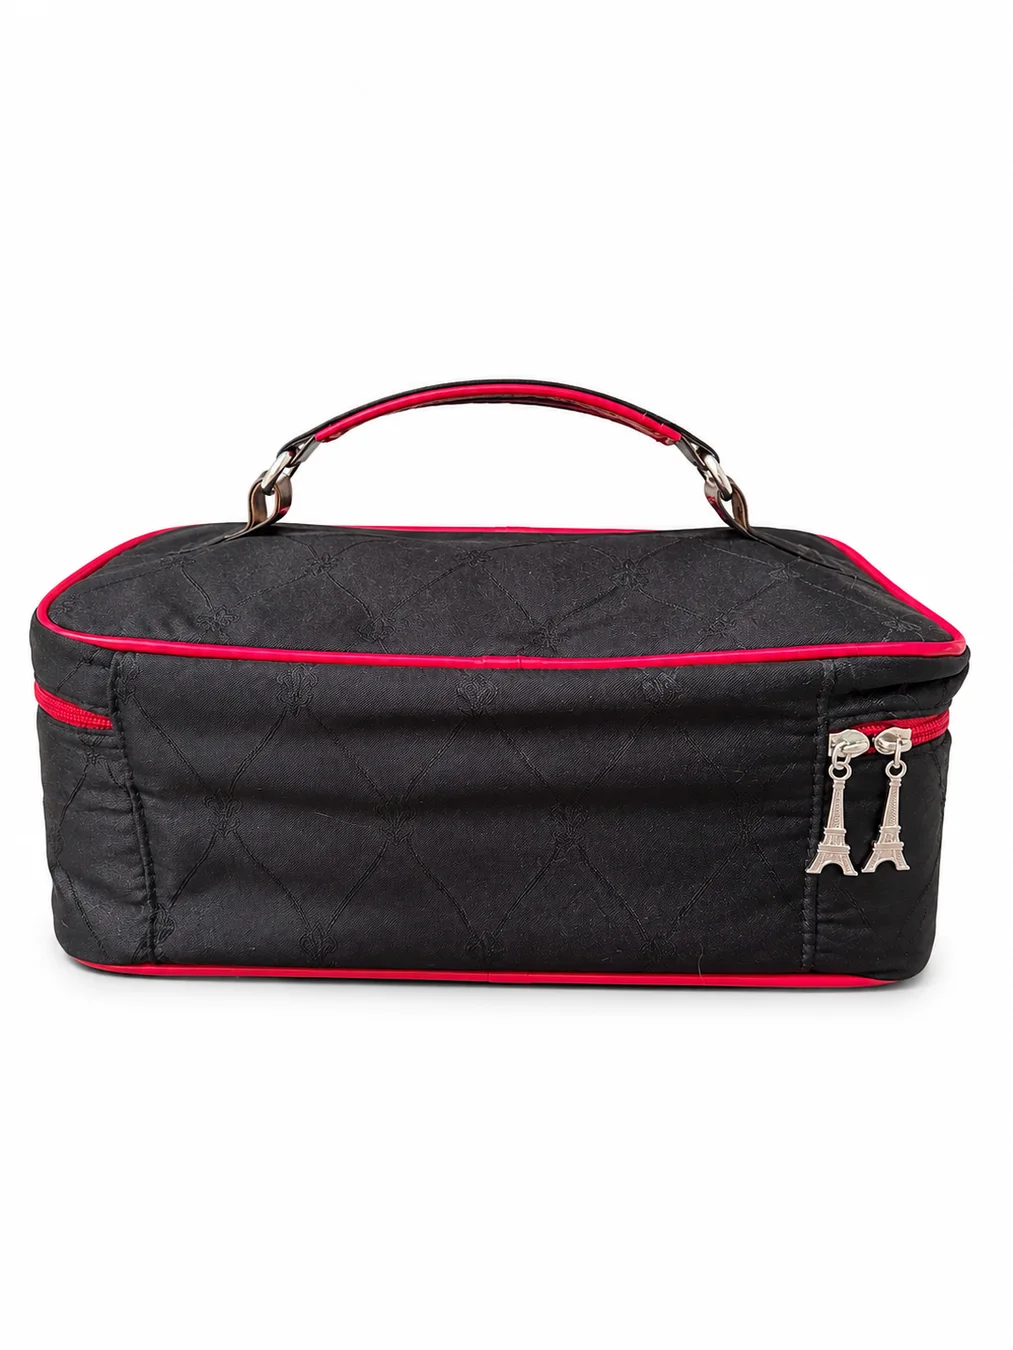
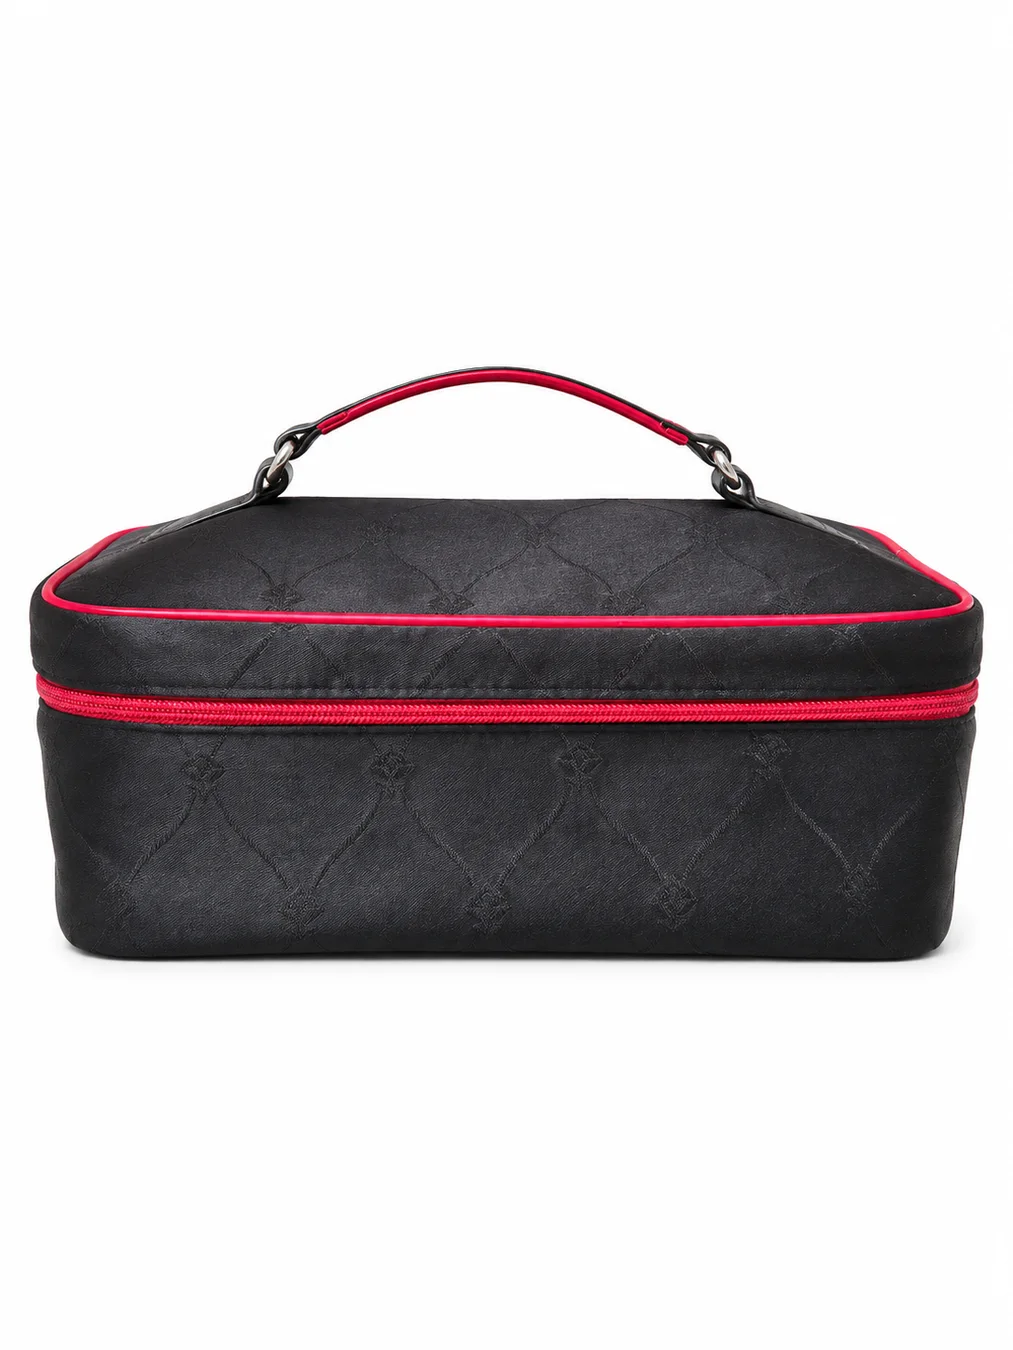
Correct red-trim case front and back photos and cover collage

Changed region(s): [[0.0306, 0.2489, 0.9793, 0.7467]]

diff --git a/index.html b/index.html
@@ -23,16 +23,16 @@
 </section>
 <section class="beauty-product" id="lancome-ribete-rojo" data-category="beauty" aria-labelledby="red-case-name">
   <div class="case-gallery">
-    <a id="red-case-full-photo" href="assets/products/beauty/lancome-red-trim/collage.webp" target="_blank" rel="noopener">
-      <img id="red-case-photo" src="assets/products/beauty/lancome-red-trim/collage.webp" alt="Estuche con ribete rojo, tiradores de torre Eiffel y etiqueta interior" loading="lazy">
+    <a id="red-case-full-photo" href="assets/products/beauty/lancome-red-trim/collage.webp?v=2" target="_blank" rel="noopener">
+      <img id="red-case-photo" src="assets/products/beauty/lancome-red-trim/collage.webp?v=2" alt="Estuche con ribete rojo, tiradores de torre Eiffel y etiqueta interior" loading="lazy">
     </a>
     <div class="case-views" role="group" aria-label="Vistas del estuche">
-      <a href="assets/products/beauty/lancome-red-trim/collage.webp" data-case-view="collage" aria-current="true" data-case-copy="collage">Collage</a>
-      <a href="assets/products/beauty/lancome-red-trim/front.webp" data-case-view="front" data-case-copy="front">Frente</a>
+      <a href="assets/products/beauty/lancome-red-trim/collage.webp?v=2" data-case-view="collage" aria-current="true" data-case-copy="collage">Collage</a>
+      <a href="assets/products/beauty/lancome-red-trim/front.webp?v=2" data-case-view="front" data-case-copy="front">Frente</a>
       <a href="assets/products/beauty/lancome-red-trim/top.webp" data-case-view="top" data-case-copy="top">Desde arriba</a>
       <a href="assets/products/beauty/lancome-red-trim/interior.webp" data-case-view="interior" data-case-copy="interior">Interior y etiqueta</a>
       <a href="assets/products/beauty/lancome-red-trim/base.webp" data-case-view="base" data-case-copy="base">Base</a>
-      <a href="assets/products/beauty/lancome-red-trim/reverse.webp" data-case-view="reverse" data-case-copy="reverse">Reverso</a>
+      <a href="assets/products/beauty/lancome-red-trim/reverse.webp?v=2" data-case-view="reverse" data-case-copy="reverse">Reverso</a>
     </div>
   </div>
   <div class="case-info">
@@ -44,4 +44,4 @@
     <p class="women-note" data-case-copy="photoNote">Fotos editadas con IA a partir de las imágenes del estuche.</p>
   </div>
 </section>
-<div class="notice"><div><p class="eyebrow">PRÓXIMAMENTE</p><h2>Estamos agregando productos.</h2><p>Esta es una vista previa de la tienda. Ya puedes explorar las prendas y solicitar una compra. Confirmaremos precio y disponibilidad antes de enviar un enlace de pago seguro.</p></div><span class="notice-icon">✧</span></div></main><footer><div><strong>ROPA Y BELLEZA</strong><p>Moda, belleza y accesorios seleccionados.</p></div><p>Próximamente: contacto y consultas sobre productos.</p></footer><script src="site/main.js?v=6"></script><script src="site/products.js?v=9"></script></body></html>
+<div class="notice"><div><p class="eyebrow">PRÓXIMAMENTE</p><h2>Estamos agregando productos.</h2><p>Esta es una vista previa de la tienda. Ya puedes explorar las prendas y solicitar una compra. Confirmaremos precio y disponibilidad antes de enviar un enlace de pago seguro.</p></div><span class="notice-icon">✧</span></div></main><footer><div><strong>ROPA Y BELLEZA</strong><p>Moda, belleza y accesorios seleccionados.</p></div><p>Próximamente: contacto y consultas sobre productos.</p></footer><script src="site/main.js?v=7"></script><script src="site/products.js?v=9"></script></body></html>

diff --git a/site/main.js b/site/main.js
@@ -36,13 +36,13 @@ const redTrimCopy = {
     name: 'Estuche Lancôme con ribete rojo',
     description: 'Estuche negro con motivos tejidos, ribete rojo y dos tiradores en forma de torre Eiffel. El interior rojo tiene un bolsillo fruncido y una etiqueta que dice «Designed Exclusively For Lancôme».',
     base: 'Base', reverse: 'Reverso',
-    alt: {collage: 'Estuche con ribete rojo, tiradores de torre Eiffel y etiqueta interior', front: 'Frente con dos tiradores de torre Eiffel', top: 'Tapa estampada con asa negra y costuras rojas', interior: 'Forro rojo, bolsillo y etiqueta diseñada para Lancôme', base: 'Base estampada con borde rojo', reverse: 'Cara posterior con cierre rojo'}
+    alt: {collage: 'Estuche con ribete rojo, tiradores de torre Eiffel y etiqueta interior', front: 'Frente con cierre rojo continuo', top: 'Tapa estampada con asa negra y costuras rojas', interior: 'Forro rojo, bolsillo y etiqueta diseñada para Lancôme', base: 'Base estampada con borde rojo', reverse: 'Reverso con dos tiradores de torre Eiffel'}
   },
   en: {
     name: 'Lancôme Red-Trim Makeup Case',
     description: 'Black patterned case with red piping and two Eiffel Tower zipper pulls. The red lining has a gathered pocket and a label reading “Designed Exclusively For Lancôme”.',
     base: 'Base', reverse: 'Back',
-    alt: {collage: 'Red-trim case, Eiffel Tower pulls and interior brand label', front: 'Front with two Eiffel Tower zipper pulls', top: 'Patterned lid with black handle and red stitching', interior: 'Red lining, pocket and Designed Exclusively For Lancôme label', base: 'Patterned base with red piping', reverse: 'Rear face with red zipper'}
+    alt: {collage: 'Red-trim case, Eiffel Tower pulls and interior brand label', front: 'Front with continuous red zipper', top: 'Patterned lid with black handle and red stitching', interior: 'Red lining, pocket and Designed Exclusively For Lancôme label', base: 'Patterned base with red piping', reverse: 'Back with two Eiffel Tower zipper pulls'}
   }
 };
 const caseSections = document.querySelectorAll('.beauty-product');
